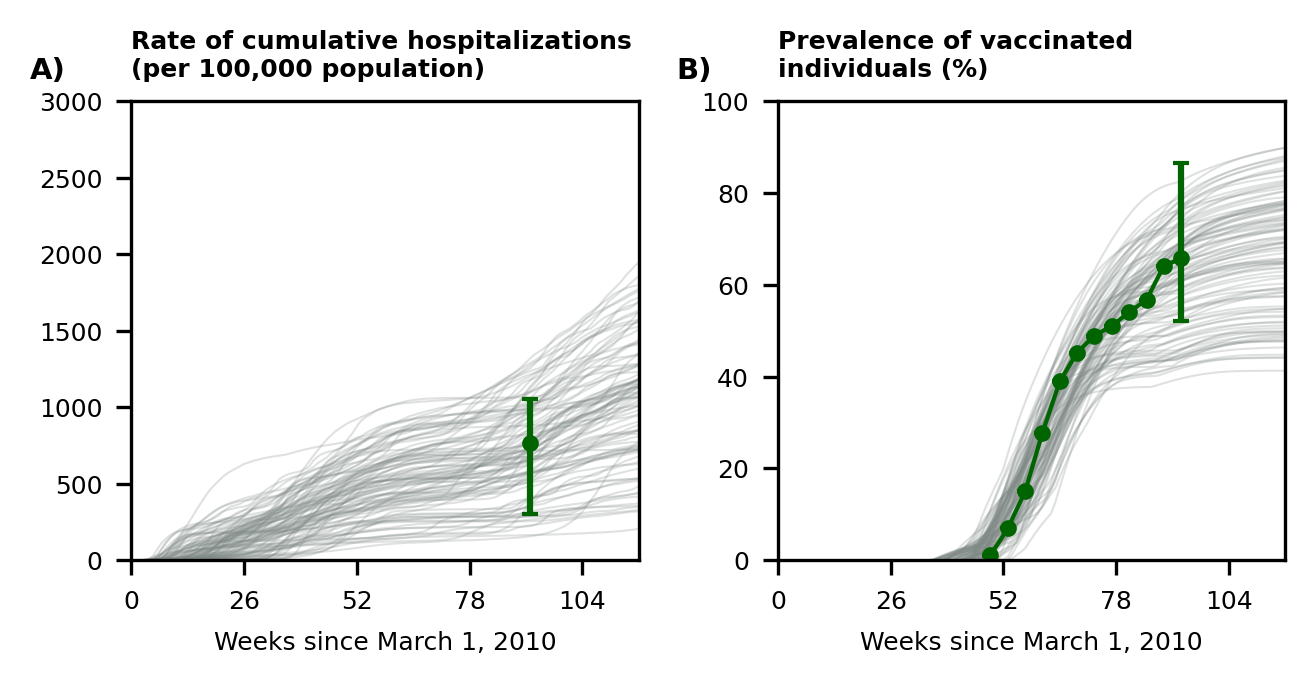
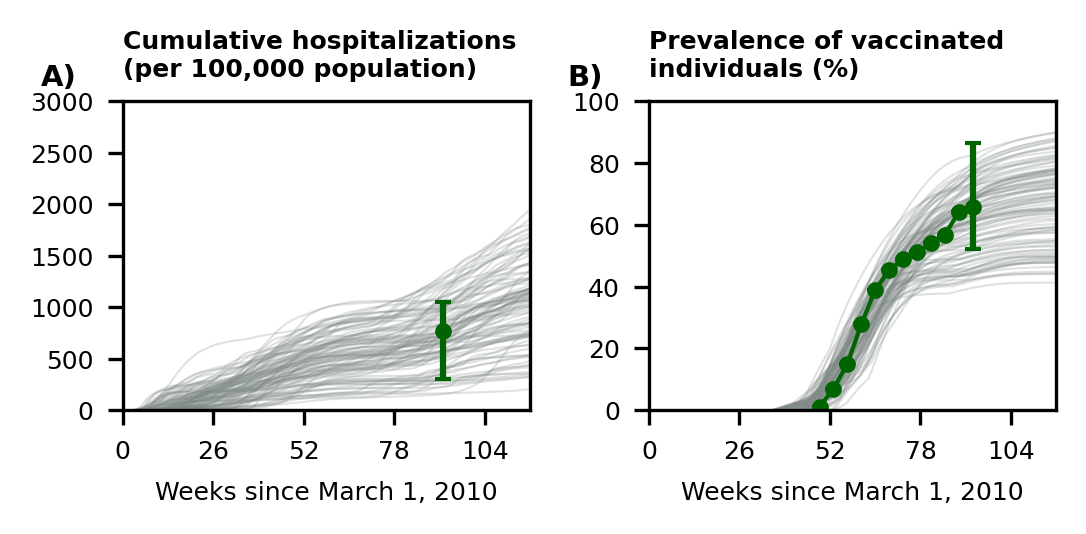
r21

Changed region(s): [[0.0, 0.03, 1.0, 0.9588]]

diff --git a/covid_visualization/plot_trajs.py b/covid_visualization/plot_trajs.py
@@ -119,7 +119,7 @@ def plot(prev_multiplier=52, incd_multiplier=1, obs_incd_multiplier=1,
                 y_range=[MIN_HOSP_RATE_OVERALL, MAX_HOSP_RATE_OVERALL])))
     obs_cum_hosp_rate = A.TrajPlotInfo(
         outcome_name='Obs: Cumulative hospitalization rate',
-        title='Rate of cumulative hospitalizations\n(per 100,000 population)',
+        title='Cumulative hospitalizations\n(per 100,000 population)',
         y_range=(0, 1000*3), y_multiplier=100000, x_multiplier=prev_multiplier,
         calibration_info=A.CalibrationTargetPlotInfo(
             rows_of_data=CUM_HOSP_RATE_OVERALL
@@ -179,7 +179,7 @@ def plot(prev_multiplier=52, incd_multiplier=1, obs_incd_multiplier=1,
                                   file_name=save_plots_dir+'/summary_r21.png',
                                   n_random_trajs_to_display=n_random_trajs_to_display,
                                   show_subplot_labels=True,
-                                  figure_size=(2.2*2, 2.3)
+                                  figure_size=(1.8*2, 1.8)
                                   )
 
     # -----------------------------------------------------
